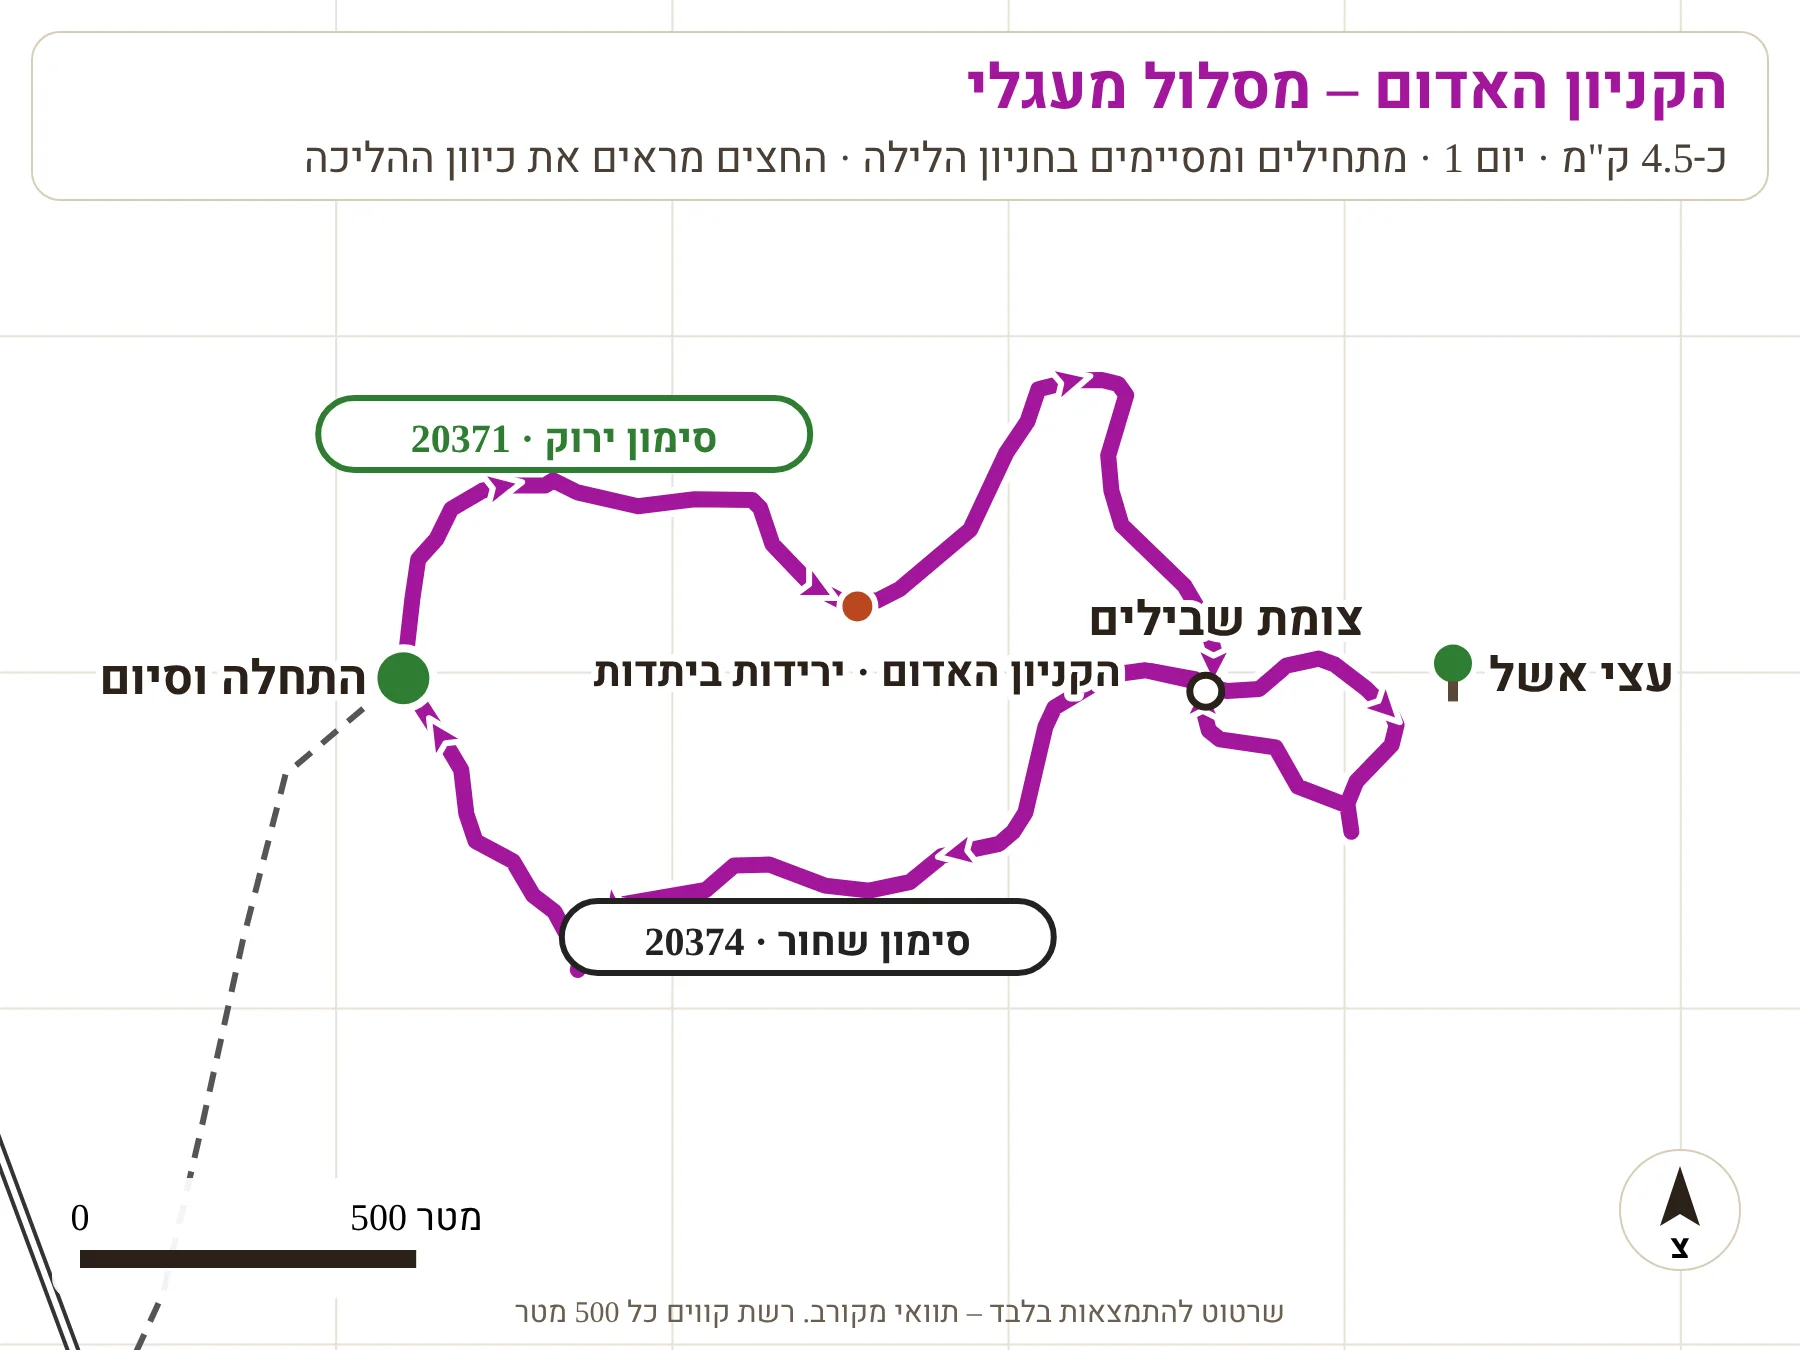
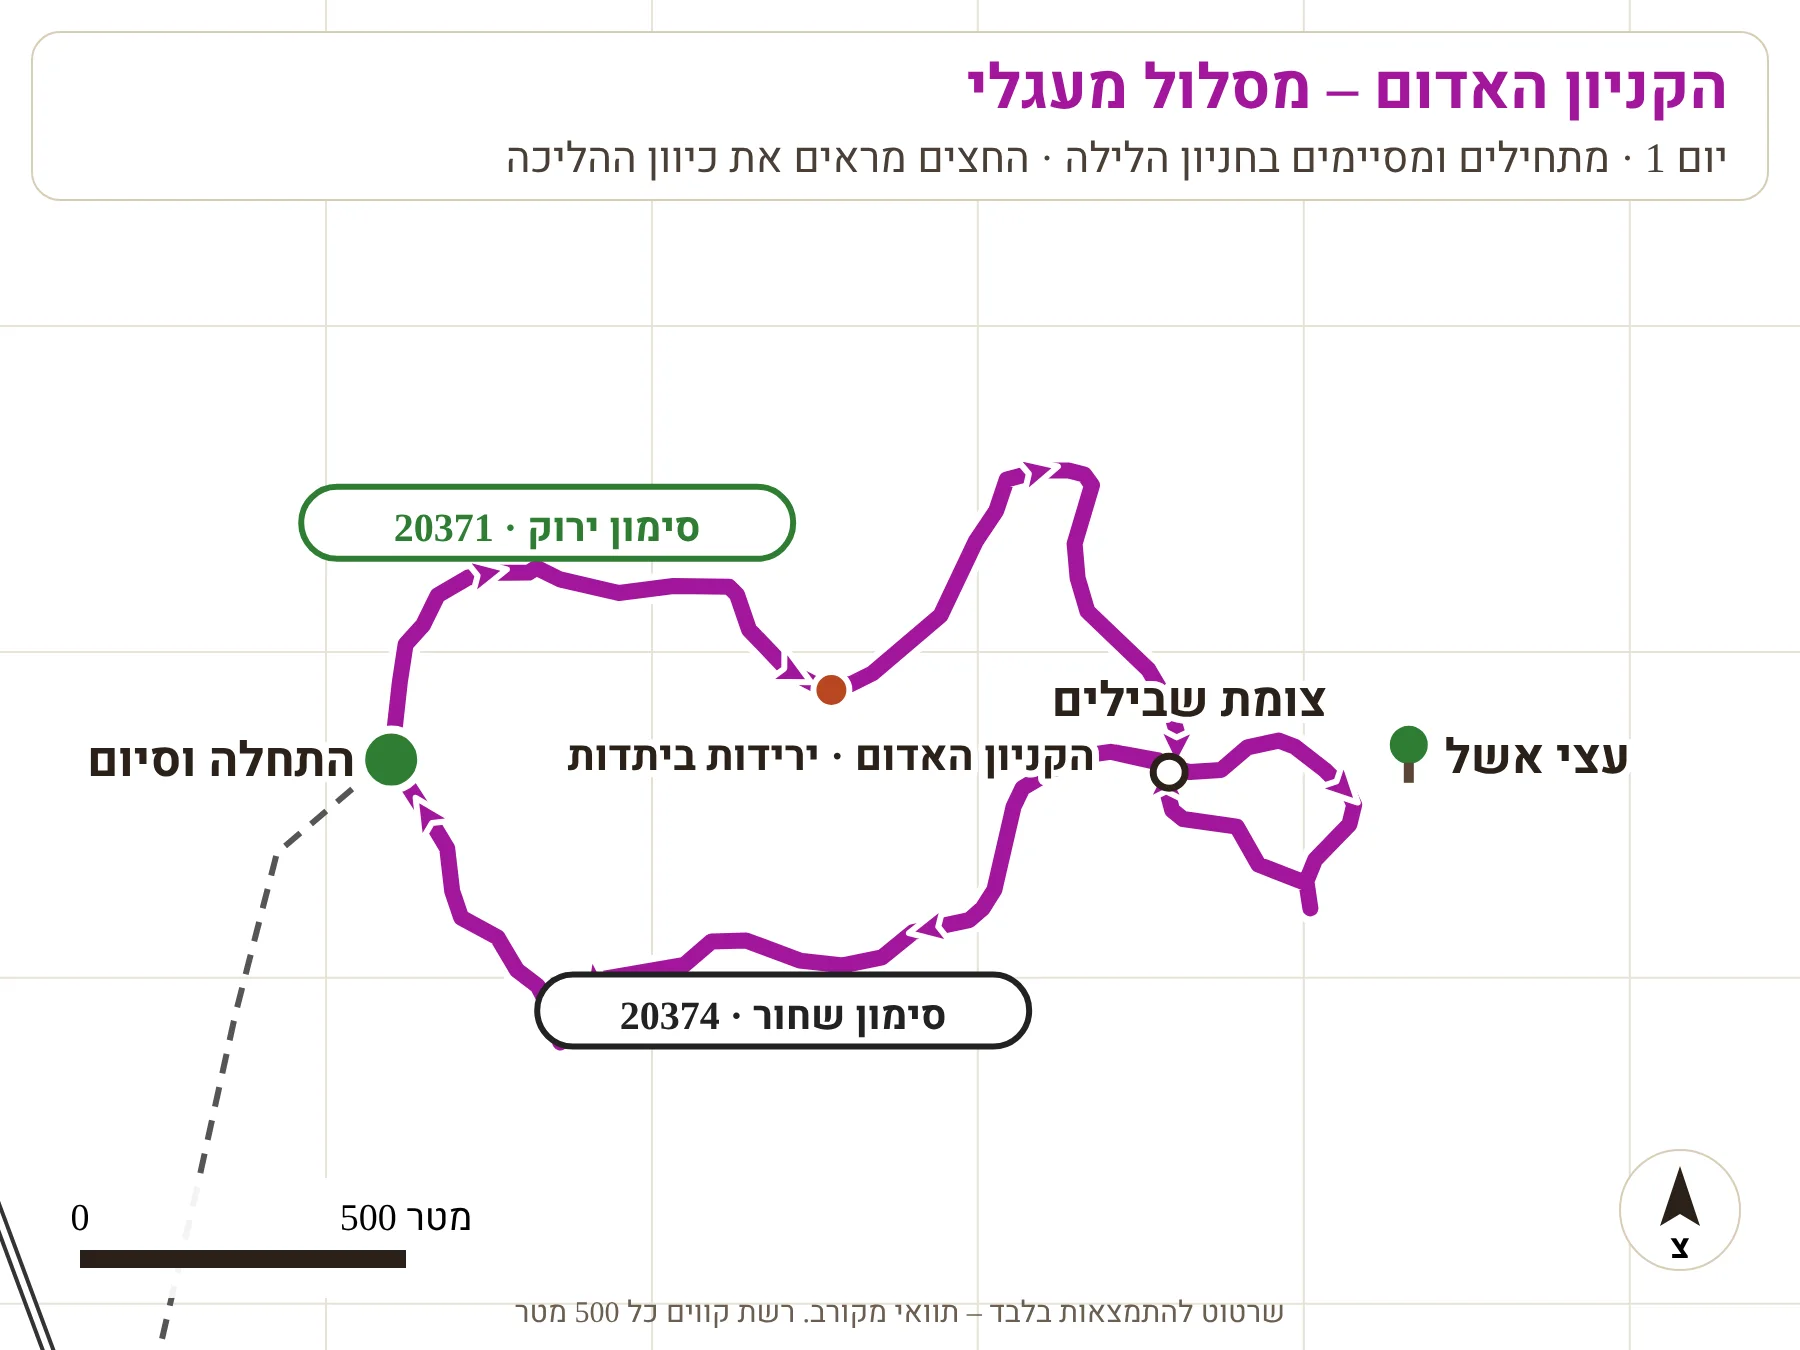
v2.5.3: detailed route maps for all three days redrawn from trail maps
Claude-Session: https://claude.ai/code/session_017ufJBgqgSqmbuZkyZyoNeJ

diff --git a/app.js b/app.js
@@ -1,18 +1,18 @@
 /* טיול שנתי י"ב תשפ"ז – אתר הטיול. ללא איסוף מידע: הכול נשמר מקומית בטלפון (localStorage). */
 'use strict';
 
-const APP_VERSION = '2.5.2';
+const APP_VERSION = '2.5.3';
 const LETTERS = ["א'", "ב'", "ג'", "ד'"];
 const MAPS = {
   eilat: { title: 'הרי אילת', img: 'maps/eilat.webp', lat0: 29.72, lat1: 29.48, lon0: 34.84, lon1: 35.03, latRef: 29.6, vbW: 688.4, vbH: 1000,
     alt: 'מפת הרי אילת עם שלושת המסלולים: 1 נחל אמיר, 2 הר צפחות, 3 הקניון האדום, כבישים 90 ו-12 ודרכי העפר אל המסלולים.' },
   israel: { title: 'ישראל', img: 'maps/israel.webp', lat0: 33.42, lat1: 29.40, lon0: 34.15, lon1: 36.85, latRef: 31.4, vbW: 768, vbH: 1340,
     alt: 'מפת ישראל עם הכבישים הראשיים, ערים מרכזיות, רחובות כנקודת היציאה, עבדת כעצירה בהלוך, ואזור אילת מוגדל עם המסלולים וחניון יעלים.' },
-  red: { title: 'הקניון האדום', img: 'maps/route-red.webp', lat0: 29.688294, lat1: 29.670237, lon0: 34.868858, lon1: 34.896548, latRef: 29.6, vbW: 900, vbH: 675,
+  red: { title: 'הקניון האדום', img: 'maps/route-red.webp', lat0: 29.689701, lat1: 29.671079, lon0: 34.868858, lon1: 34.897415, latRef: 29.6, vbW: 900, vbH: 675,
     alt: 'מפה מפורטת של מסלול 3, הקניון האדום: קו המסלול המעגלי, נקודת ההתחלה והסיום בירוק, וכבישים ודרכי עפר בסביבה.' },
-  amir: { title: 'נחל אמיר והר אמיר', img: 'maps/route-amir.webp', lat0: 29.66042, lat1: 29.61402, lon0: 34.92124, lon1: 34.96127, latRef: 29.6, vbW: 750, vbH: 1000,
+  amir: { title: 'נחל אמיר והר אמיר', img: 'maps/route-amir.webp', lat0: 29.658068, lat1: 29.620923, lon0: 34.921772, lon1: 34.953813, latRef: 29.6, vbW: 900, vbH: 1200,
     alt: 'מפה מפורטת של מסלול 1, נחל אמיר והר אמיר: קו המסלול, נקודת התחלה בירוק ונקודת סיום באדום, וכבישים ודרכי עפר בסביבה.' },
-  tzfachot: { title: 'הר צפחות', img: 'maps/route-tzfachot.webp', lat0: 29.54241, lat1: 29.49521, lon0: 34.89384, lon1: 34.93456, latRef: 29.6, vbW: 750, vbH: 1000,
+  tzfachot: { title: 'הר צפחות', img: 'maps/route-tzfachot.webp', lat0: 29.532915, lat1: 29.502266, lon0: 34.89887, lon1: 34.936728, latRef: 29.6, vbW: 900, vbH: 838,
     alt: 'מפה מפורטת של מסלול 2, הר צפחות: קו המסלול, נקודת התחלה בירוק ונקודת סיום באדום, וכבישים ודרכי עפר בסביבה.' }};
 
 /* ---------- storage helpers (local only) ---------- */
@@ -488,11 +488,11 @@ function setZoom(dz) {
   if (old !== zoom) toast(zoom === 1 ? 'תצוגה מלאה' : `הגדלה ×${zoom}`);
 }
 /* ---------- התקדמות במסלול / זמן נסיעה משוער (מחושב בטלפון בלבד, הערכה גסה) ---------- */
-const TRACKS = {"amir":[[29.64962,34.94307],[29.64701,34.94271],[29.6444,34.9417],[29.64257,34.93962],[29.64231,34.93813],[29.6397,34.93873],[29.63709,34.93962],[29.63448,34.94051],[29.63186,34.9414],[29.62925,34.94259],[29.62717,34.94378],[29.62482,34.94437]],"tzfachot":[[29.52787,34.91072],[29.52523,34.90874],[29.52306,34.90685],[29.51807,34.90627],[29.51666,34.90801],[29.51334,34.90816],[29.51244,34.9102],[29.51154,34.91136],[29.51052,34.91267],[29.51154,34.91457],[29.51142,34.91617],[29.50975,34.91879],[29.51039,34.92068],[29.51026,34.92214]],"red":[[29.67922,34.87506],[29.68029,34.8752],[29.68081,34.87529],[29.68108,34.87557],[29.68149,34.8758],[29.68173,34.87628],[29.6818,34.87665],[29.6818,34.87725],[29.68187,34.87737],[29.68171,34.87774],[29.68152,34.87867],[29.68162,34.87954],[29.68161,34.88043],[29.6815,34.88055],[29.68101,34.88074],[29.68045,34.88136],[29.68026,34.88178],[29.68026,34.88236],[29.68041,34.8827],[29.68121,34.88378],[29.68224,34.88434],[29.68266,34.88466],[29.68309,34.88483],[29.68321,34.88538],[29.68321,34.88581],[29.68316,34.88606],[29.68301,34.88618],[29.6822,34.88591],[29.68173,34.88595],[29.68127,34.88611],[29.68046,34.88708],[29.67998,34.8874],[29.6796,34.88753],[29.67913,34.88752],[29.67932,34.88657],[29.67921,34.88723],[29.67914,34.88737],[29.67898,34.88736],[29.67913,34.88737],[29.67905,34.88773],[29.67908,34.88823],[29.67939,34.88865],[29.67949,34.88914],[29.6794,34.88939],[29.67908,34.88987],[29.67875,34.89026],[29.6786,34.89034],[29.67833,34.89026],[29.67784,34.88972],[29.67755,34.88958],[29.67717,34.88965],[29.67752,34.88958],[29.67777,34.88882],[29.6783,34.88848],[29.6784,34.88763],[29.67853,34.88745],[29.67883,34.88736],[29.67916,34.88736],[29.67933,34.88647],[29.67926,34.88591],[29.67883,34.88508],[29.67857,34.88494],[29.67743,34.88463],[29.67717,34.88445],[29.67701,34.88423],[29.67684,34.88335],[29.67649,34.88285],[29.67638,34.88223],[29.67645,34.88155],[29.67673,34.88069],[29.67672,34.88015],[29.67639,34.87971],[29.67619,34.87833],[29.67598,34.87816],[29.67582,34.87815],[29.67562,34.87782],[29.67532,34.87775],[29.67563,34.87784],[29.67585,34.87754],[29.6761,34.87739],[29.67632,34.87706],[29.67677,34.87675],[29.67704,34.87617],[29.67741,34.87603],[29.678,34.87595],[29.67829,34.87575],[29.67922,34.87506]]};
+const TRACKS = {"amir":[[29.64827,34.94246],[29.64781,34.94194],[29.64786,34.94118],[29.64766,34.94095],[29.64694,34.94083],[29.64557,34.94119],[29.64353,34.93968],[29.6423,34.93834],[29.64214,34.9363],[29.64092,34.93659],[29.63888,34.938],[29.6372,34.93806],[29.63394,34.93894],[29.63221,34.94076],[29.63109,34.94111],[29.63018,34.94181],[29.62666,34.94293],[29.62467,34.94288],[29.62452,34.94311]],"tzfachot":[[29.52751,34.91109],[29.52713,34.91074],[29.52642,34.9106],[29.5255,34.91007],[29.52516,34.90967],[29.52516,34.90929],[29.52534,34.90894],[29.52526,34.90871],[29.52343,34.90737],[29.52297,34.9072],[29.52174,34.90729],[29.52126,34.90697],[29.52026,34.90663],[29.5196,34.9068],[29.51805,34.90669],[29.51675,34.90821],[29.51525,34.9085],[29.51374,34.90825],[29.51313,34.90834],[29.51285,34.9086],[29.51273,34.90895],[29.5126,34.91055],[29.51194,34.91081],[29.51171,34.91128],[29.51113,34.91189],[29.51113,34.91239],[29.51059,34.91291],[29.51057,34.91323],[29.51103,34.91343],[29.51118,34.9139],[29.5118,34.91465],[29.51182,34.91503],[29.5118,34.91529],[29.51149,34.91579],[29.51159,34.91625],[29.51149,34.9166],[29.51058,34.91823],[29.50994,34.91902],[29.50997,34.91957],[29.51043,34.92004],[29.5103,34.92068],[29.51074,34.92114],[29.51059,34.9217],[29.51036,34.92187]],"red":[[29.67922,34.87506],[29.68029,34.8752],[29.68081,34.87529],[29.68108,34.87557],[29.68149,34.8758],[29.68173,34.87628],[29.6818,34.87665],[29.6818,34.87725],[29.68187,34.87737],[29.68171,34.87774],[29.68152,34.87867],[29.68162,34.87954],[29.68161,34.88043],[29.6815,34.88055],[29.68101,34.88074],[29.68045,34.88136],[29.68026,34.88178],[29.68026,34.88236],[29.68041,34.8827],[29.68121,34.88378],[29.68224,34.88434],[29.68266,34.88466],[29.68309,34.88483],[29.68321,34.88538],[29.68321,34.88581],[29.68316,34.88606],[29.68301,34.88618],[29.6822,34.88591],[29.68173,34.88595],[29.68127,34.88611],[29.68046,34.88708],[29.67998,34.8874],[29.6796,34.88753],[29.67913,34.88752],[29.67932,34.88657],[29.67921,34.88723],[29.67914,34.88737],[29.67898,34.88736],[29.67913,34.88737],[29.67905,34.88773],[29.67908,34.88823],[29.67939,34.88865],[29.67949,34.88914],[29.6794,34.88939],[29.67908,34.88987],[29.67875,34.89026],[29.6786,34.89034],[29.67833,34.89026],[29.67784,34.88972],[29.67755,34.88958],[29.67717,34.88965],[29.67752,34.88958],[29.67777,34.88882],[29.6783,34.88848],[29.6784,34.88763],[29.67853,34.88745],[29.67883,34.88736],[29.67916,34.88736],[29.67933,34.88647],[29.67926,34.88591],[29.67883,34.88508],[29.67857,34.88494],[29.67743,34.88463],[29.67717,34.88445],[29.67701,34.88423],[29.67684,34.88335],[29.67649,34.88285],[29.67638,34.88223],[29.67645,34.88155],[29.67673,34.88069],[29.67672,34.88015],[29.67639,34.87971],[29.67619,34.87833],[29.67598,34.87816],[29.67582,34.87815],[29.67562,34.87782],[29.67532,34.87775],[29.67563,34.87784],[29.67585,34.87754],[29.6761,34.87739],[29.67632,34.87706],[29.67677,34.87675],[29.67704,34.87617],[29.67741,34.87603],[29.678,34.87595],[29.67829,34.87575],[29.67922,34.87506]]};
 const STOPS = {
   d1: [['עבדת', '10:00', 30.7935, 34.7733], ['הקניון האדום', '15:00', 29.67922, 34.87506], ['חאן יעלים', '24:00', 29.887, 35.062]],
-  d2: [['תחילת מסלול נחל אמיר', '15:00', 29.64962, 34.94307], ['יטבתה', '17:00', 29.886, 35.06], ['חאן יעלים', '24:00', 29.887, 35.062]],
-  d3: [['תחילת מסלול הר צפחות', '11:30', 29.52787, 34.91072], ['אום רשרש', '13:30', 29.5525, 34.9556], ['אייס מול', '17:00', 29.5545, 34.9615], ['בית הספר ברחובות', '24:00', 31.895, 34.81]]
+  d2: [['תחילת מסלול נחל אמיר', '15:00', 29.64827, 34.94246], ['יטבתה', '17:00', 29.886, 35.06], ['חאן יעלים', '24:00', 29.887, 35.062]],
+  d3: [['תחילת מסלול הר צפחות', '11:30', 29.52751, 34.91109], ['אום רשרש', '13:30', 29.5525, 34.9556], ['אייס מול', '17:00', 29.5545, 34.9615], ['בית הספר ברחובות', '24:00', 31.895, 34.81]]
 };
 function kmBetween(a, b) {
   const k = Math.PI / 180, x = (b[1] - a[1]) * k * Math.cos((a[0] + b[0]) / 2 * k), y = (b[0] - a[0]) * k;

diff --git a/sw.js b/sw.js
@@ -1,5 +1,5 @@
 /* Service worker: שומר את כל קבצי האתר בטלפון לשימוש ללא אינטרנט. לא אוסף ולא שולח מידע. */
-const CACHE = 'trip12-2.5.2';
+const CACHE = 'trip12-2.5.3';
 const ASSETS = ['./', 'index.html', 'styles.css', 'app.js', 'game.js', 'extras.js', 'lib/qrcode.min.js', 'lib/jsQR.min.js', 'manifest.webmanifest', 'data/content.json',
   'icons/icon-192.png', 'icons/icon-512.png', 'icons/icon-maskable-512.png', 'icons/apple-touch-icon.png',
   'maps/eilat.webp', 'maps/israel.webp', 'maps/route-red.webp', 'maps/route-amir.webp', 'maps/route-tzfachot.webp',
